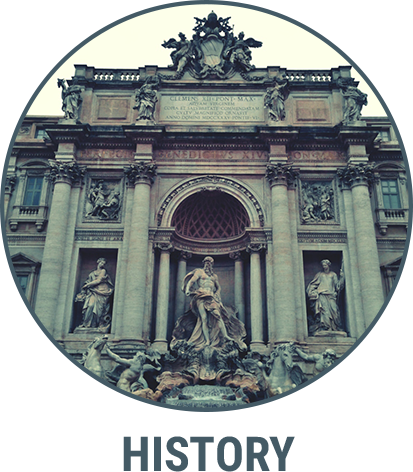
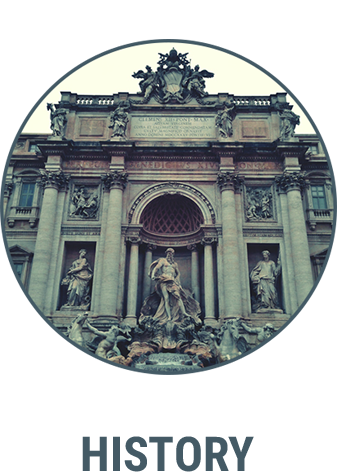
residzed for vertical

diff --git a/gh-pages-demo/demo.css b/gh-pages-demo/demo.css
@@ -318,19 +318,19 @@ body .gridBox.isLastContentBlock{
 	position: absolute;
 	left: 50%;
 	top: 35%;
-	margin-left: -650px;
+	margin-left: -570px;
 }
 .profileHistory{
 	position: absolute;
 	left: 50%;
 	top: 35%;
-	margin-left: -200px;
+	margin-left: -190px;
 }
 .profileNature{
 	position: absolute;
 	left: 50%;
 	top: 35%;
-	margin-left: 250px;
+	margin-left: 190px;
 }
 .selectProfile{
 	position: absolute;
